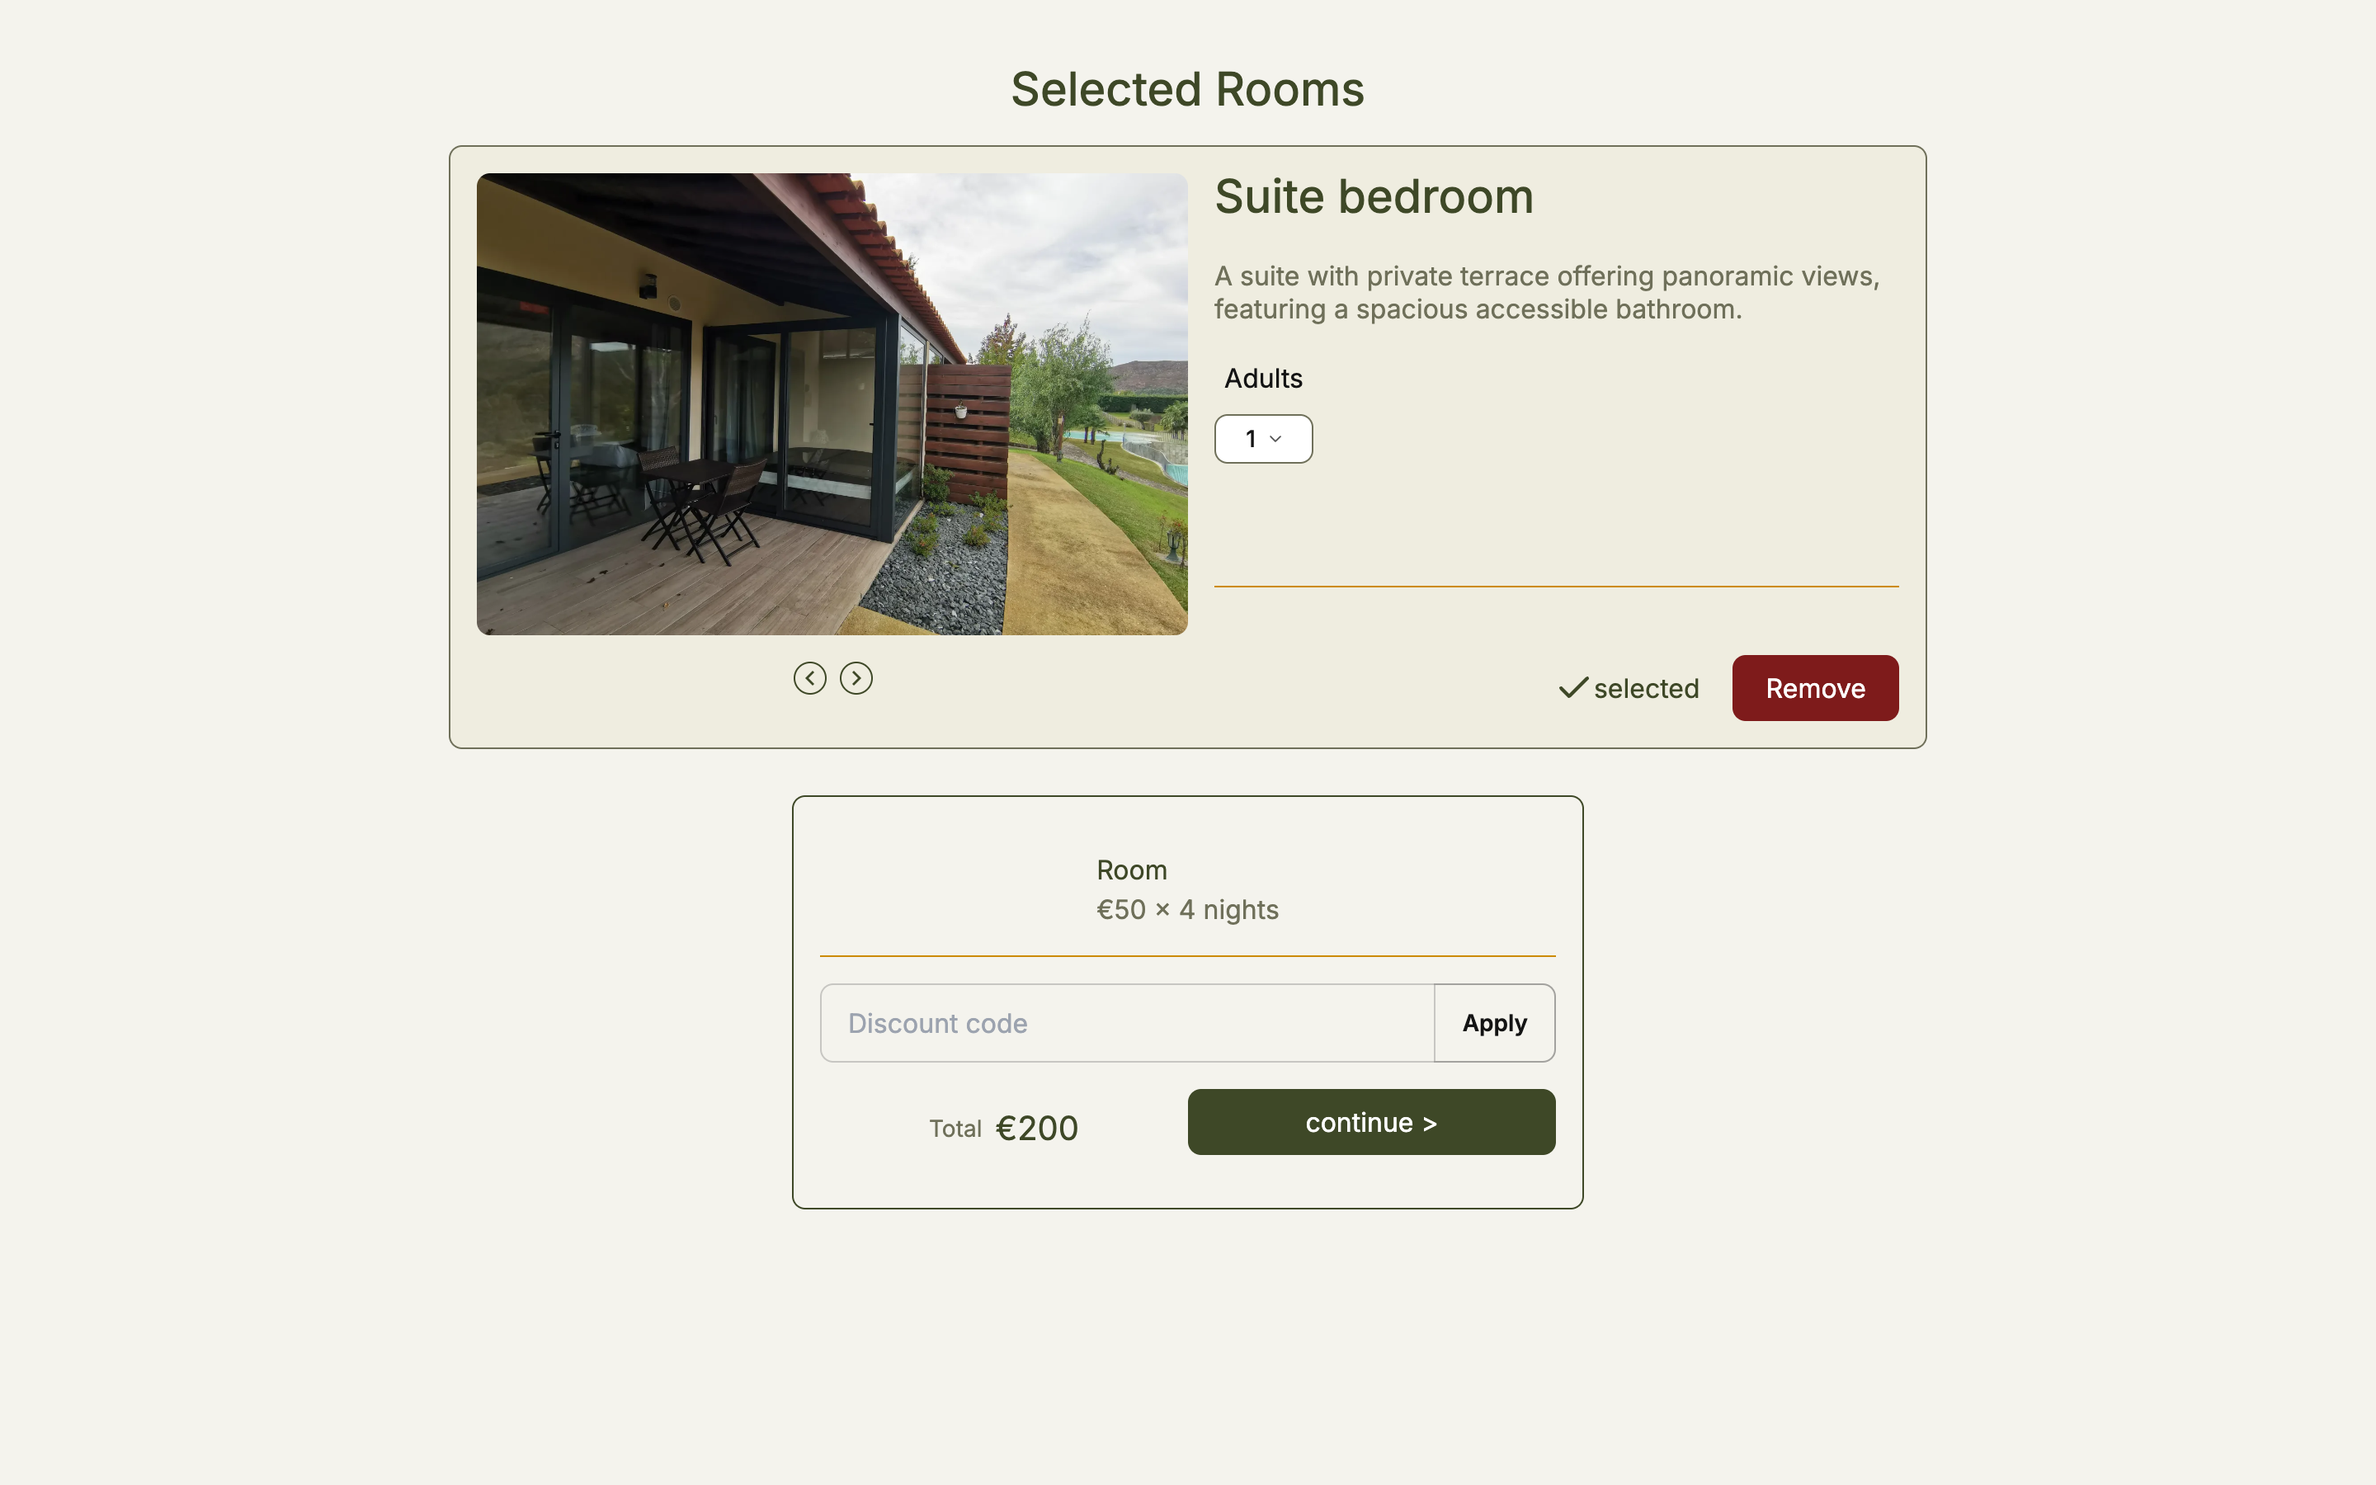
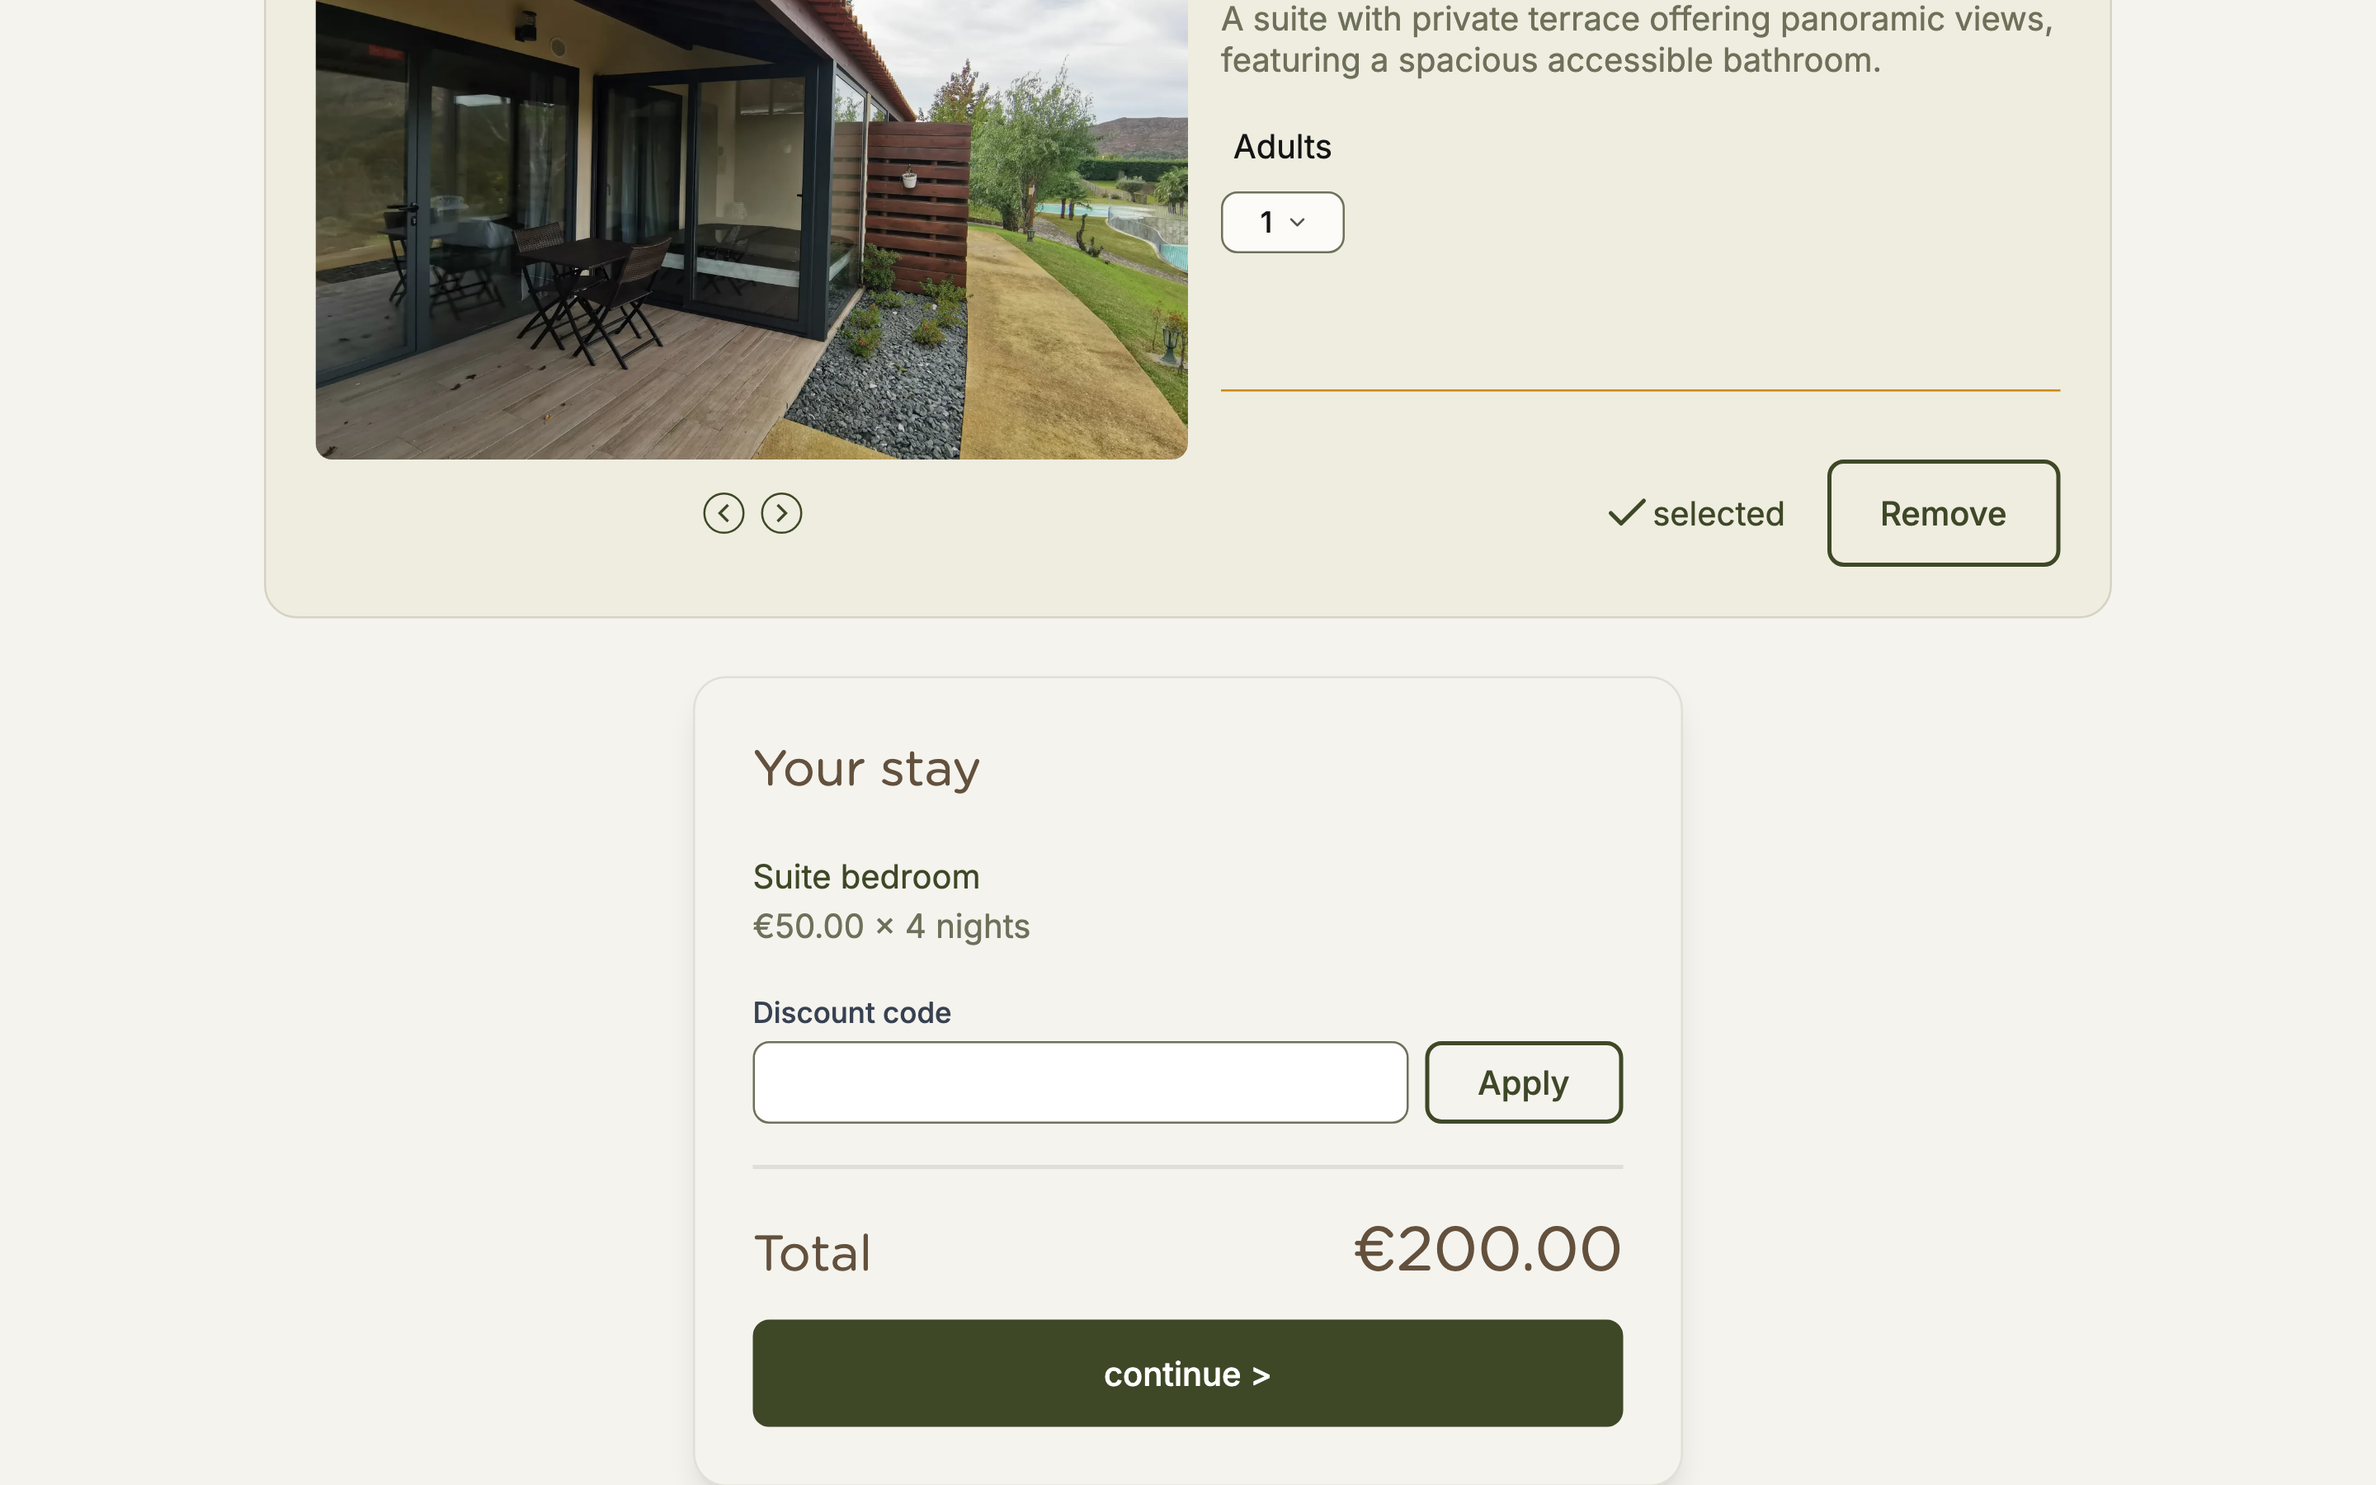
fix(v3): readable screenshots, live-site captures and a live hero
Case study: desktop captures were tiled 3-up inside the 736px text column,
so full admin pages showed at 236px. Landscape groups now break out of the
measure at lg (up to 1120px), never go more than 2-up, stack at lg below
xl, and a third capture spans the row. The assistant capture moves below
its safeguards instead of a 354px side column. `sizes` follow the slots.

Captures: booking-rooms and booking-checkout are recaptured from the live
simplyhappy.pt booking flow (1152x720 @2.5x, stopped before Stripe); their
captions say "Live site." (the type and gates now allow it for public
pages; admin captures keep "Test data."). The home hero shows the live
simplyhappy.pt home page (home-hero.jpg), served at q60 to stay under the
60 kB LCP budget (59.0 kB at 750w). The home assistant frame's `sizes`
said 400px but it renders at ~593px; corrected.

diff --git a/src/content/work/simply-happy.ts b/src/content/work/simply-happy.ts
@@ -196,7 +196,7 @@ export const simplyHappy = {
       alt: "Admin reservations page with the booking rules panel: auto-confirm toggle and guest cancellation window",
       caption: "Test data. Rules for bookings paid on the site: auto-confirm and the cancellation window",
       section: "owned",
-      sizes: "(min-width: 1024px) 236px, (min-width: 768px) 30vw, 100vw",
+      sizes: "(min-width: 90em) 1120px, (min-width: 80em) 896px, (min-width: 64em) 736px, 100vw",
     },
     {
       src: "/work/simply-happy/admin-events.png",
@@ -205,7 +205,7 @@ export const simplyHappy = {
       alt: "Admin events list with status, places and attendee actions per event",
       caption: "Test data. Admin events management, redesigned list",
       section: "owned",
-      sizes: "(min-width: 1024px) 236px, (min-width: 768px) 30vw, 100vw",
+      sizes: "(min-width: 90em) 556px, (min-width: 80em) 444px, (min-width: 64em) 736px, (min-width: 48em) 46vw, 100vw",
     },
     {
       src: "/work/simply-happy/admin-supplies.png",
@@ -214,25 +214,25 @@ export const simplyHappy = {
       alt: "Admin supplies list with stock on hand, low-stock flags, reorder points and record-delivery actions",
       caption: "Test data. Supplies: stock on hand, reorder points and deliveries",
       section: "owned",
-      sizes: "(min-width: 1024px) 236px, (min-width: 768px) 30vw, 100vw",
+      sizes: "(min-width: 90em) 556px, (min-width: 80em) 444px, (min-width: 64em) 736px, (min-width: 48em) 46vw, 100vw",
     },
     {
       src: "/work/simply-happy/booking-rooms.png",
       width: 2880,
       height: 1800,
       alt: "The booking flow after dates are chosen: room categories with photo, capacity, availability and a Select button",
-      caption: "Test data. Room selection step of the booking flow",
+      caption: "Live site. Room selection step of the booking flow",
       section: "payments",
-      sizes: "(min-width: 1024px) 361px, (min-width: 768px) 46vw, 100vw",
+      sizes: "(min-width: 90em) 556px, (min-width: 80em) 444px, (min-width: 64em) 736px, (min-width: 48em) 46vw, 100vw",
     },
     {
       src: "/work/simply-happy/booking-checkout.png",
       width: 2880,
       height: 1800,
-      alt: "The selected room with the summary box showing nights, discount code field and total before continuing to payment",
-      caption: "Test data. Checkout summary before Stripe",
+      alt: "The selected room above the Your stay summary: nights, discount code field and total before continuing to payment",
+      caption: "Live site. The stay summary before Stripe",
       section: "payments",
-      sizes: "(min-width: 1024px) 361px, (min-width: 768px) 46vw, 100vw",
+      sizes: "(min-width: 90em) 556px, (min-width: 80em) 444px, (min-width: 64em) 736px, (min-width: 48em) 46vw, 100vw",
     },
     {
       // Portrait phone capture, capped at 384px from md up.
@@ -251,7 +251,7 @@ export const simplyHappy = {
       alt: "The admin booking calendar by room with the read-only Ask panel open and its note that nothing is saved",
       caption: "Test data. Admin booking calendar with the assistant panel open",
       section: "assistant",
-      sizes: "(min-width: 1024px) 354px, (min-width: 768px) 46vw, 100vw",
+      sizes: "(min-width: 90em) 1120px, (min-width: 80em) 896px, (min-width: 64em) 736px, 100vw",
     },
   ],
 } satisfies CaseStudy;

diff --git a/src/components/case-study/ShotGroup.tsx b/src/components/case-study/ShotGroup.tsx
@@ -4,21 +4,31 @@ import type { Screenshot } from "@/content/work/types";
 type Props = { shots: Screenshot[]; className?: string };
 
 /**
- * A section's captures: 2-up or 3-up from md at the tile gap, one column below, edge to edge on phones (negative
- * margins match the section padding). The count decides the columns, so the content module only says which section
- * a capture belongs in. Renders nothing when the section has none.
+ * A section's captures, one column below md and edge to edge on phones (negative margins match the section padding).
+ * Desktop captures are full pages, so they never go three across: two go 2-up at md and from xl and stack at lg, where
+ * the body column is only 480-736px; with three, the first spans the row and the other two pair up under it. At lg a
+ * group of landscape captures is marked `data-wide` and breaks out of the text measure to the media width (globals.css).
+ * The `sizes` strings in the content module describe these slots. Renders nothing when the section has none.
  */
 const ShotGroup = ({ shots, className = "" }: Props) => {
   if (!shots.length) return null;
-  const cols = shots.length >= 3 ? "md:grid-cols-3" : shots.length === 2 ? "md:grid-cols-2" : "";
+  const wide = shots.every((shot) => shot.width > shot.height);
+  const cols = shots.length >= 2 ? "md:grid-cols-2 lg:grid-cols-1 xl:grid-cols-2" : "";
+  const spanFirst = shots.length % 2 === 1 && shots.length > 1;
   return (
     <ul
       role="list"
       data-shots=""
+      data-wide={wide ? "" : undefined}
       className={`m-0 grid list-none grid-cols-1 gap-tile-gap p-0 max-md:-mx-5 ${cols} ${className}`}
     >
-      {shots.map((shot) => (
-        <li key={shot.src} className={shot.height > shot.width ? "md:max-w-[384px]" : undefined}>
+      {shots.map((shot, i) => (
+        <li
+          key={shot.src}
+          className={
+            shot.height > shot.width ? "md:max-w-[384px]" : spanFirst && i === 0 ? "md:col-span-2 lg:col-span-1 xl:col-span-2" : undefined
+          }
+        >
           <ScreenshotViewer {...shot} />
         </li>
       ))}

diff --git a/src/components/sections/Hero.tsx b/src/components/sections/Hero.tsx
@@ -2,15 +2,15 @@ import Image from "next/image";
 import ButtonLink from "@/components/ui/ButtonLink";
 import LaptopFrame from "@/components/ui/LaptopFrame";
 import Counter from "@/components/ui/Counter";
-import { hero, simplyHappyFeature } from "@/content/site";
+import { hero } from "@/content/site";
 
 // The hero image is the LCP element: the only preloaded image on the site (EXPERIENCE.md hero image rule). One
-// <Image> whose box moves by CSS between the laptop screen (lg) and the full-bleed phone slot. `sizes` is shared with
-// sheet 01 so both ask for the same optimised candidate.
+// <Image> whose box moves by CSS between the laptop screen (lg) and the full-bleed phone slot. It shows the live
+// simplyhappy.pt home page; sheet 01 shows the booking flow and reuses `heroSizes` for its own slot.
 export const heroSizes = "(min-width: 1024px) 58vw, 100vw";
 
 const Hero = () => {
-  const img = simplyHappyFeature.image;
+  const img = hero.image;
   return (
     <section className="hero" aria-label="Introduction">
       <div className="hero-copy">
@@ -36,6 +36,7 @@ const Hero = () => {
           height={img.height}
           alt=""
           sizes={heroSizes}
+          quality={60}
           preload
           loading="eager"
           fetchPriority="high"

diff --git a/src/components/sections/AssistantSection.tsx b/src/components/sections/AssistantSection.tsx
@@ -15,7 +15,7 @@ const AssistantSection = ({ assistant, trail, media }: Props) => {
   return (
     <SectionFrame id="assistant" title="Admin AI assistant (safety design)" trail={trail}>
       <p className="m-0 max-w-[68ch] text-[15px] leading-[1.55] text-text-secondary lg:text-[16px]">{assistant.intro}</p>
-      <div className="mt-6 md:grid md:grid-cols-[minmax(0,1fr)_46%] md:items-start md:gap-tile-gap lg:grid-cols-[minmax(0,1fr)_354px]">
+      <div className="mt-6">
         <ul role="list" className="m-0 list-none p-0">
           {assistant.safeguards.map((panel, i) => (
             <li key={`safeguard-${i}`} className="border-t border-line py-4">
@@ -24,7 +24,7 @@ const AssistantSection = ({ assistant, trail, media }: Props) => {
             </li>
           ))}
         </ul>
-        {media ? <div className="mt-6 md:mt-4">{media}</div> : null}
+        {media ? <div className="mt-6">{media}</div> : null}
       </div>
       <p className="m-0 mt-6 max-w-[68ch] border-t border-line pt-5 text-[15px] leading-[1.55] text-text-secondary lg:text-[16px]">
         {assistant.closing}

diff --git a/src/content/site.ts b/src/content/site.ts
@@ -14,6 +14,8 @@ export const hero = {
   word: ["Simply", "Happy"],
   primaryCta: { label: "Read the Simply Happy case study", href: caseStudyHref },
   secondaryCta: { label: "Get in touch", href: "#contact" },
+  // The laptop screen: the live simplyhappy.pt home page (1440x900 @2x). Decorative there (alt=""), and the LCP image.
+  image: { src: "/work/simply-happy/home-hero.jpg", width: 2880, height: 1800 },
 };
 
 export const simplyHappyFeature = {
@@ -28,7 +30,7 @@ export const simplyHappyFeature = {
     width: 2880,
     height: 1800,
     alt: "The booking flow after dates are chosen: room categories with photo, capacity, availability and a Select button",
-    caption: "Test data. Room selection step of the booking flow, develop preview",
+    caption: "Live site. Room selection step of the booking flow",
   },
   link: { label: "Read the case study", href: caseStudyHref },
 };

diff --git a/src/app/globals.css b/src/app/globals.css
@@ -305,6 +305,10 @@
       text-transform: uppercase;
     }
     .trail-body { max-inline-size: theme("spacing.measure-content"); padding-block: 34px 88px; }
+    /* Landscape captures are whole desktop pages: let them run past the text measure into the empty right side, up
+       to 1120px. 560px = both page margins (128) + the TOC column (368) + the gutter (48) + 16 for a classic scrollbar.
+       Keep in step with the `sizes` strings in src/content/work/*.ts. */
+    .trail-body [data-shots][data-wide] { inline-size: min(1120px, 100vw - 560px); max-inline-size: none; }
   }
   @media (min-width: 64em) and (min-height: 47.5em) and (prefers-reduced-motion: no-preference) { /* stack */
     .trail-tab { top: calc(theme("spacing.hud-strip") + (var(--n, 1) - 1) * theme("spacing.sheet-tab-step")); }

diff --git a/src/components/ui/ScreenshotFrame.tsx b/src/components/ui/ScreenshotFrame.tsx
@@ -24,7 +24,7 @@ type Props = {
 /**
  * DESIGN.md screenshot frame: a bezel panel with a line border, a 26px title bar (three 8px rings and the file name),
  * the image at its own ratio and a caption strip with an accent dot. The bezel keeps the box (and its ratio) if the
- * image fails, and the caption stays either way. Every caption begins "Test data." (the content type enforces it).
+ * image fails, and the caption stays either way. Every caption begins "Test data." (admin) or "Live site." (public pages); the content type enforces it.
  */
 const ScreenshotFrame = ({ src, width, height, alt, caption, sizes, image, wrapFrame, bleed }: Props) => {
   const filename = src.split("/").pop() ?? src;

diff --git a/src/content/work/types.ts b/src/content/work/types.ts
@@ -11,8 +11,11 @@ export type Screenshot = {
   height: number;
   /** Describes what the screenshot demonstrates. */
   alt: string;
-  /** Must start with "Test data" so nobody mistakes it for real customers. */
-  caption: `Test data${string}`;
+  /**
+   * "Test data" for captures of the admin (seed data on the develop preview, so nobody mistakes it for real
+   * customers); "Live site" for captures of the public pages on simplyhappy.pt, which show no customer data.
+   */
+  caption: `Test data${string}` | `Live site${string}`;
   /** The case-study section the capture illustrates (EXPERIENCE.md IA table); array order is the order inside it. */
   section: ScreenshotSection;
   sizes?: string;

diff --git a/src/components/sections/SupportingWork.tsx b/src/components/sections/SupportingWork.tsx
@@ -4,7 +4,8 @@ import { supportingWork } from "@/content/site";
 
 // Sheet 03 (#also): the assistant (featured, into the case study, with its captioned screenshot) and CoinFlow (out,
 // same tab). Titles are h3 with a stretched link; the arrow line is decorative. The screenshot is not a viewer trigger.
-const assistantSizes = "(min-width: 1024px) 400px, (min-width: 768px) 50vw, 100vw";
+// The featured row is 1fr / 1.2fr from md, so the frame takes about 55% of the sheet; it measures 593px at 1920.
+const assistantSizes = "(min-width: 1024px) 600px, (min-width: 768px) 52vw, 100vw";
 
 const SupportingWork = () => (
   <Sheet n={3} id="also" labelledBy="h-also">
